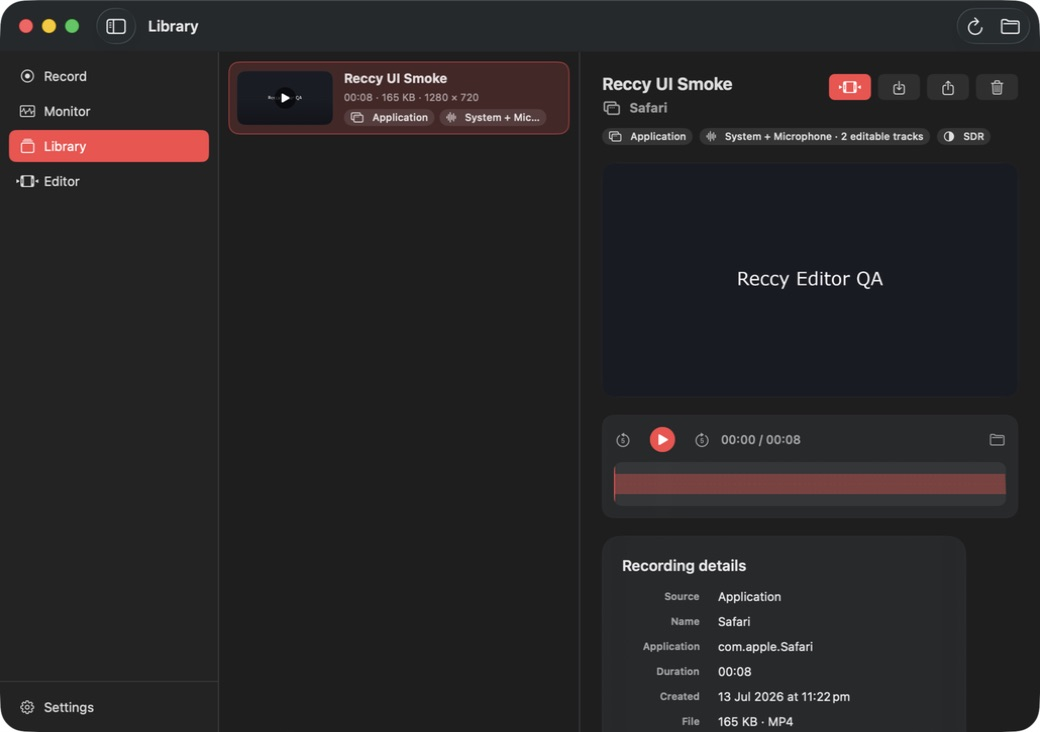
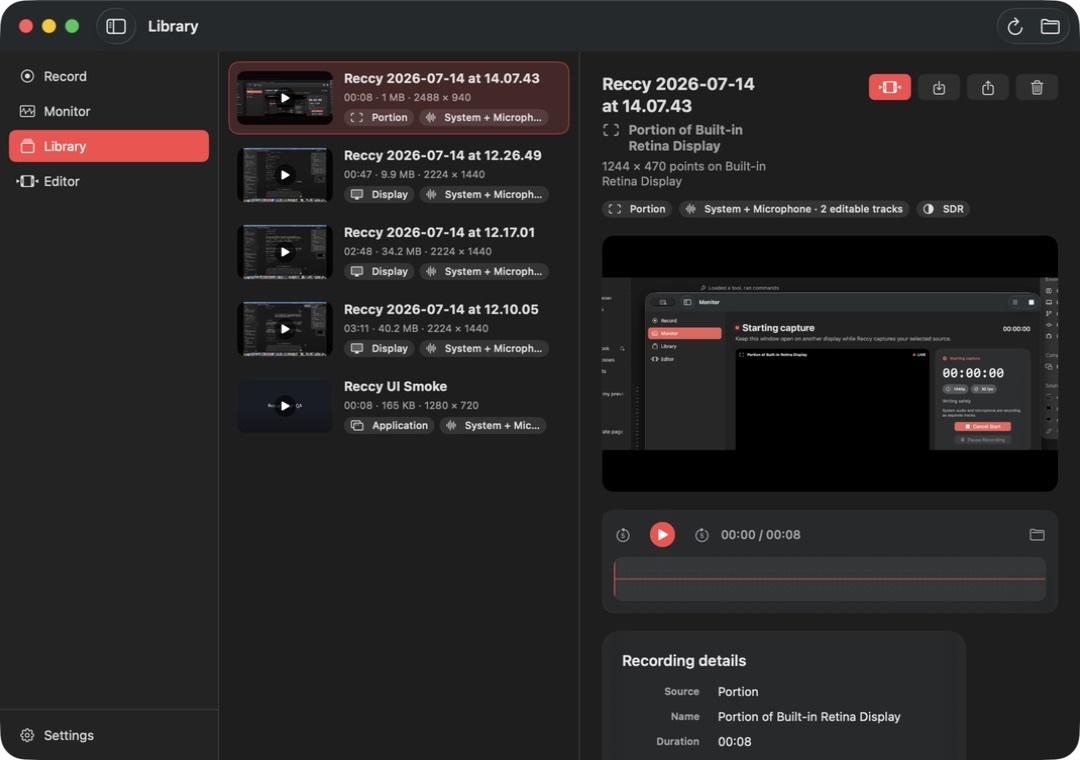
docs: refresh product guide and screenshots

diff --git a/Documentation/ARCHITECTURE.md b/Documentation/ARCHITECTURE.md
@@ -32,7 +32,7 @@ Region selection overlay ├── approved SCContentFilter
 
 ## Capture
 
-`CaptureCoordinator` owns user-visible state, persisted settings, privacy authorization, output naming, and the transition into the library. Display, application, and window approval use `SCContentSharingPicker`. Portion capture bypasses the whole-display picker and presents one coordinated, non-capturable selection panel per connected display; the accepted rectangle becomes the `sourceRect` of a display `SCContentFilter`.
+`CaptureCoordinator` owns user-visible state, persisted settings, privacy authorization, output naming, and the transition into the library. Display, application, and window approval use `SCContentSharingPicker` and remain available without a direct-capture grant. Portion capture needs the one-time Direct Screen & System Audio Access approval that macOS describes as bypassing the private window picker; Reccy then presents one coordinated, non-capturable selection panel per connected display, and the accepted rectangle becomes the `sourceRect` of a display `SCContentFilter`.
 
 `MultitrackRecorder` consumes ScreenCaptureKit sample buffers on one serial, user-interactive queue. The first complete video frame establishes the asset-writer session time. Early audio is buffered briefly and flushed from that same timestamp, preventing microphone or system-audio lead-in from shifting sync.
 
@@ -54,7 +54,7 @@ On macOS 26, `SCScreenshotConfiguration` captures the already-approved content f
 
 `TimelineEditorController` materializes that model as an `AVMutableComposition` for AVPlayer preview and export. Video, system audio, microphone, and voiceover remain independent lanes. A user can split only the selected clip or split every lane at the playhead, delete one clip, or ripple-delete a range across the project. Lane mute and volume are represented by `AVAudioMix` parameters.
 
-Voiceover uses `AVAudioRecorder` to write AAC into the project's `Media` directory. Each take becomes an independent audio clip at the current playhead, so it can be split, muted, deleted, or replaced without altering the screen recording.
+Voiceover uses an explicitly configured `AVCaptureSession` and `AVCaptureAudioFileOutput` so the user can choose a real input device instead of being limited to the current system default. The session commits its configuration before capture starts and writes mono 48 kHz AAC into the project's `Media` directory. Each take becomes an independent audio clip at the current playhead, so it can be moved, trimmed, split, muted, deleted, or replaced without altering the screen recording.
 
 Project packages use this shape:
 
@@ -83,7 +83,7 @@ Capture and editing are local. The only network surface is Sparkle's signed upda
 
 Release builds originate from an `.xcarchive`, include a dSYM archive, and are universal, timestamped Developer ID-signed, notarized, stapled, and checked by Gatekeeper. Sparkle archives and the feed are independently EdDSA-signed and published with a phased appcast through GitHub Releases. One shared validator gates local and CI releases on the exact bundle identity, version/tag, minimum OS, both architectures, Hardened Runtime, production entitlements, updater configuration, matching Sparkle key, notarization ticket, expanded-archive identity, and cryptographic archive/feed verification. Final artifacts include SHA-256 checksums and a commit-addressed machine-readable manifest.
 
-Local capture builds use the same identity principle. `Scripts/install-development.sh` refuses ad-hoc signing and requires a stable Apple Development or Developer ID certificate, ensuring macOS TCC sees rebuilt `/Applications/Reccy.app` bundles as the same application. It rejects a different team or designated code requirement and performs a staged same-volume replacement with rollback, preventing both privacy-identity churn and a half-installed app.
+Local capture builds use the same identity principle. `scripts/install-development.sh` refuses ad-hoc signing and requires a stable Apple Development or Developer ID certificate, ensuring macOS TCC sees rebuilt `/Applications/Reccy.app` bundles as the same application. It rejects a different team or designated code requirement and performs a staged same-volume replacement with rollback, preventing both privacy-identity churn and a half-installed app.
 
 ## Testing strategy
 
@@ -103,6 +103,7 @@ The automated suite covers Retina-aware resolution capping, no-upscale behavior,
 - [SCScreenshotConfiguration](https://developer.apple.com/documentation/screencapturekit/scscreenshotconfiguration)
 - [AVMutableComposition](https://developer.apple.com/documentation/avfoundation/avmutablecomposition)
 - [AVAssetExportSession](https://developer.apple.com/documentation/avfoundation/avassetexportsession)
-- [AVAudioRecorder](https://developer.apple.com/documentation/avfaudio/avaudiorecorder)
+- [AVCaptureSession](https://developer.apple.com/documentation/avfoundation/avcapturesession)
+- [AVCaptureAudioFileOutput](https://developer.apple.com/documentation/avfoundation/avcaptureaudiofileoutput)
 - [VideoToolbox](https://developer.apple.com/documentation/videotoolbox)
 - [Designing for macOS](https://developer.apple.com/design/human-interface-guidelines/designing-for-macos/)

diff --git a/README.md b/README.md
@@ -6,7 +6,7 @@ Reccy is a native screen recorder and non-destructive multitrack editor for macO
 
 ## Capture the right thing
 
-Choose an entire display, every window from one application, or one specific window through Apple's private system picker. Portion capture uses a direct QuickTime-style overlay across connected displays. Reccy keeps the approved source obvious in the workspace and draws a local capture boundary that never appears in the recorded video.
+Choose an entire display, every window from one application, or one specific window through Apple's private system picker. Portion capture uses a direct QuickTime-style overlay across connected displays and a one-time approval that macOS describes as bypassing the private window picker. Reccy keeps the approved source obvious in the workspace and draws a local capture boundary that never appears in the recorded video.
 
 - Record system audio and a chosen microphone as separate editable tracks.
 - Monitor the live picture, elapsed time, safe-write status, and detailed audio levels from another display.
@@ -15,6 +15,12 @@ Choose an entire display, every window from one application, or one specific win
 - Choose 24, 30, or 60 fps and efficient HEVC, compatible H.264, or editing-oriented MOV capture.
 - Record HDR10 or save native HEIC, JPEG, and PNG screenshots in SDR or HDR.
 - Preflight free space from the selected capture bitrate, preserve a runtime filesystem reserve, and recover playable fragmented recordings after interruption.
+
+## Monitor without guessing
+
+![Reccy live recording monitor](Documentation/Screenshots/live-monitor.jpg)
+
+Monitor shows the exact incoming picture from the writer's shared ScreenCaptureKit surface, elapsed time, committed file size, resolution, frame rate, recording state, and separate rolling waveforms for system audio and microphone input. Pause, resume, or stop from this window while it remains open on another display.
 
 ## Edit without flattening the recording
 
@@ -90,19 +96,19 @@ Requirements:
 Open `Reccy.xcodeproj`, select the Reccy scheme, and run on **My Mac**. The repository's CI-equivalent verification builds Debug, runs the automated suite, validates configuration and scripts, and builds Release:
 
 ```sh
-Scripts/verify-ci.sh
+scripts/verify-ci.sh
 ```
 
 The current suite exercises resolution policy, portrait and Retina sources, independent and linked movement, magnetic reorder, snapping, trimming, split and ripple operations, pause-time removal, track-specific waveforms, persistent per-gap fill choices, held-frame composition, manifests, bitrate-aware storage policy, cross-process recording leases, interrupted-file recovery, all ten export presets, audio-mix rendering, safe replacement, and cancellation. Installed-app Computer Use QA covers every workspace plus the real Library transport, timeline interactions, accessible editor actions, menu-bar pause/resume/stop, and end-to-end export progress.
 
 ### Permission identity matters
 
-macOS privacy grants are tied to the installed app's signing identity. Ad-hoc development builds are suitable for compilation, unit tests, and interface QA, but rebuilding them can invalidate Screen & System Audio Recording or Microphone grants. Reliable end-to-end capture testing requires a stable Apple Development or Developer ID signature.
+macOS privacy grants are tied to the installed app's signing identity. Ad-hoc development builds are suitable for compilation, unit tests, and interface QA, but rebuilding them can invalidate Direct Screen & System Audio Access or Microphone grants. Reliable end-to-end capture testing requires a stable Apple Development or Developer ID signature.
 
 After adding an Apple Account and Apple Development certificate in Xcode, use the guarded development installer:
 
 ```sh
-Scripts/install-development.sh
+scripts/install-development.sh
 ```
 
 It automatically selects an Apple Development or Developer ID identity, verifies the team identifier, refuses accidental ad-hoc installation, prevents replacing an install from a different team, and installs to `/Applications/Reccy.app`. Grant capture permissions once after the first stable-signed install; later local builds and signed Sparkle updates retain the same app identity. Local development installs on this machine use the Developer ID identity for team `BJCVJ5G7MJ`.

diff --git a/Documentation/RELEASING.md b/Documentation/RELEASING.md
@@ -2,7 +2,7 @@
 
 Reccy ships outside the Mac App Store as a universal, hardened, Developer ID-signed and notarized app. Sparkle verifies both the signed appcast and the EdDSA-signed update archive before extraction.
 
-`Scripts/release.sh` is the single release entry point. Local and GitHub releases use the same fail-closed validators; no separate “CI-only” signing path exists.
+`scripts/release.sh` is the single release entry point. Local and GitHub releases use the same fail-closed validators; no separate “CI-only” signing path exists.
 
 ## Release invariants
 
@@ -22,7 +22,7 @@ Update `MARKETING_VERSION`, `CURRENT_PROJECT_VERSION`, and `Documentation/RELEAS
 ```sh
 RECCY_CODESIGN_IDENTITY="Developer ID Application: Your Name (TEAMID)" \
 RECCY_DEVELOPMENT_TEAM="TEAMID" \
-Scripts/release.sh prepare
+scripts/release.sh prepare
 ```
 
 This creates and validates the universal `.xcarchive`, signed app, dSYM archive, and notarization ZIP. It does not contact Apple, create a GitHub release, or mutate any publishing state.
@@ -47,7 +47,7 @@ RECCY_CODESIGN_IDENTITY="Developer ID Application: Your Name (TEAMID)" \
 RECCY_DEVELOPMENT_TEAM="TEAMID" \
 RECCY_NOTARY_KEYCHAIN_PROFILE="Reccy Notary" \
 RECCY_SPARKLE_KEY_ACCOUNT="ed25519" \
-Scripts/release.sh finalize
+scripts/release.sh finalize
 ```
 
 The final command submits to Apple, staples the accepted ticket, creates and signs the phased Sparkle feed, expands and re-verifies the update, and writes:
@@ -64,7 +64,7 @@ Never upload a Sparkle private key, Developer ID certificate, notarization crede
 
 ## GitHub Actions
 
-Pushing a `v*` tag starts `.github/workflows/release.yml` on GitHub’s macOS 26 runner. It imports the certificate into an ephemeral keychain, runs the same `Scripts/release.sh finalize` gate, preserves notarization evidence and dSYMs as a private workflow artifact, publishes only verified update assets, and removes every materialized credential even after failure.
+Pushing a `v*` tag starts `.github/workflows/release.yml` on GitHub’s macOS 26 runner. It imports the certificate into an ephemeral keychain, runs the same `scripts/release.sh finalize` gate, preserves notarization evidence and dSYMs as a private workflow artifact, publishes only verified update assets, and removes every materialized credential even after failure.
 
 The repository requires these Actions secrets:
 
@@ -77,4 +77,4 @@ Protect the release environment with required reviewers, restrict tag creation, 
 
 ## Stable development installs
 
-Use `Scripts/install-development.sh` for `/Applications/Reccy.app`. It refuses ad-hoc signing, verifies the bundle identity and team, compares the designated code requirement with the installed app, stages the replacement on the same volume, and restores the prior app if the swap fails. This stable identity is what lets macOS retain Screen Recording and Microphone privacy grants across rebuilds.
+Use `scripts/install-development.sh` for `/Applications/Reccy.app`. It refuses ad-hoc signing, verifies the bundle identity and team, compares the designated code requirement with the installed app, stages the replacement on the same volume, and restores the prior app if the swap fails. This stable identity is what lets macOS retain Direct Screen & System Audio Access and Microphone grants across rebuilds.
